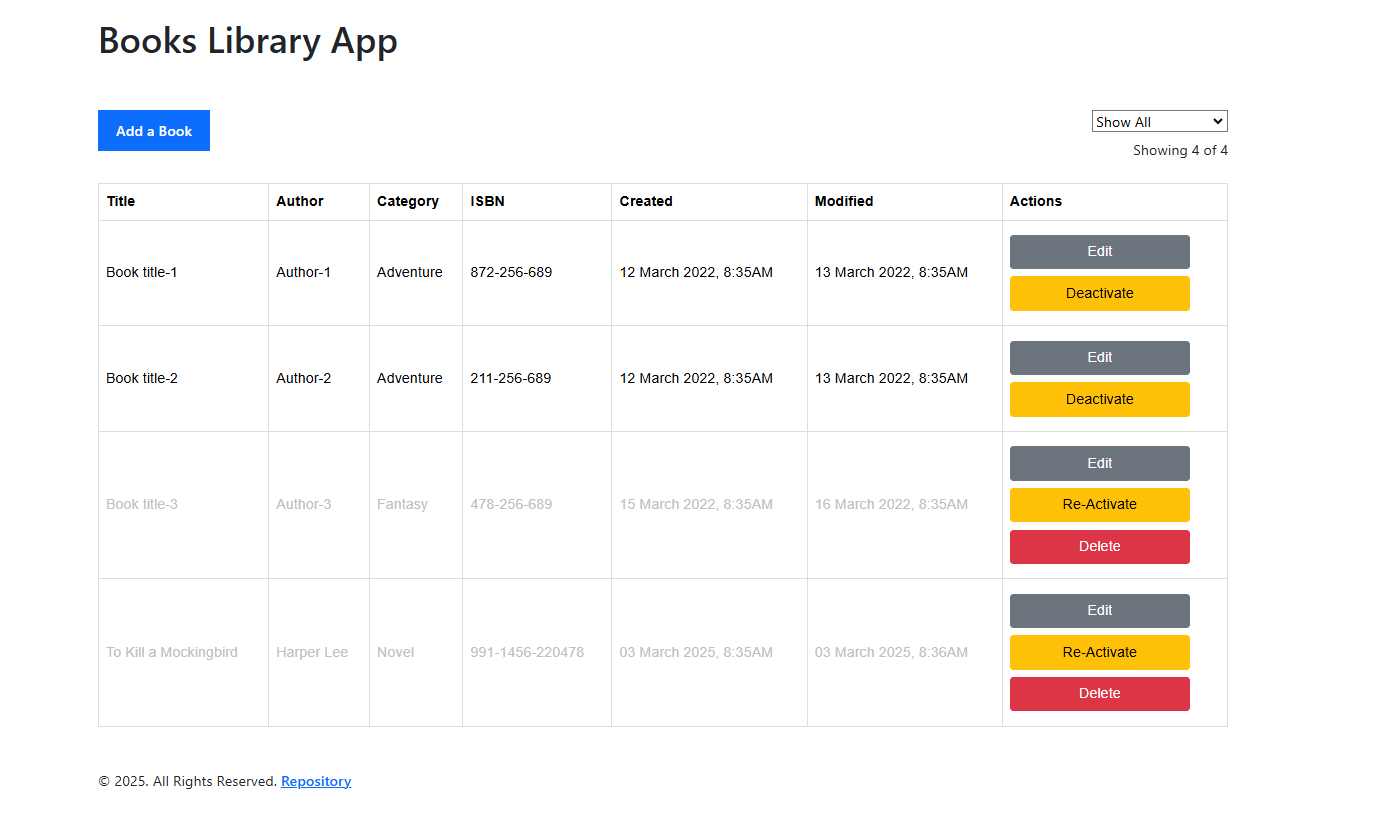
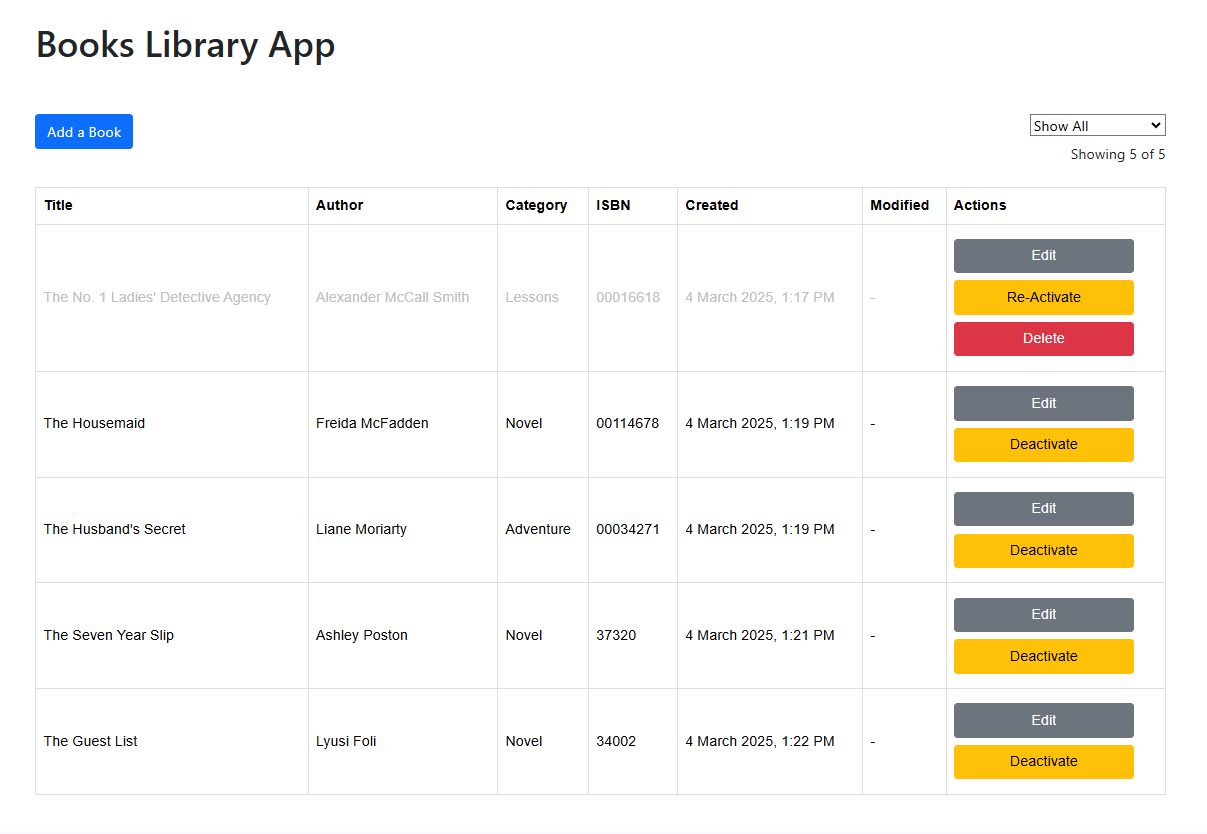
Edit-page fixes
If a book exists already, then update, if not then create a new one. Also the db.json file was updated with some new data.

diff --git a/src/pages/EditPage.tsx b/src/pages/EditPage.tsx
@@ -44,28 +44,57 @@ const EditPage = () => {
     const onSubmit = (e: React.FormEvent) => {
         e.preventDefault();
 
-        const BookUpdated = {
-            "id": uuidv4(),
+        const date = new Date();
+
+        const month = date.toLocaleString('default', { month: 'long' }),
+            time = date.toLocaleString('en-US', { hour: 'numeric', minute: 'numeric', hour12: true }),
+            formattedDate = `${date.getDate()} ${month} ${date.getFullYear()}, ${time}`;
+
+        const bookUpdated = {
+            "id": singleBook.id || uuidv4(),
             "title": singleBook.title,
             "category": singleBook.category,
             "author": singleBook.author,
             "ISBN": singleBook.ISBN,
-            "created": singleBook.created,
-            "modified": singleBook.modified,
+            "created": singleBook.created || formattedDate,
+            "modified": singleBook.modified || '-',
             "status": 'active',
         };
 
-        fetch(`${API_URL}/`, {
-            method: 'POST',
-            headers: {
-                'Content-Type': 'application/json',
-            },
-            body: JSON.stringify(BookUpdated),
-        })
-            .then((response) => response.json())  // Parse the response
-            .catch((error) => {
-                console.error('Error updating book status on server:', error);
-            });
+        fetch(`${API_URL}/${bookUpdated.id}`)
+            .then((response) => {
+                if (response.status === 200 || response.status === 201) {
+                    return response.json()
+                }
+            })
+            .then((data) => {
+                console.log(data)
+                if (data) {
+                    console.log('if branch')
+                    // Item exists, so update it with PUT request
+                    return fetch(`${API_URL}/${bookUpdated.id}`, {
+                        method: 'PUT',
+                        headers: {
+                            'Content-Type': 'application/json',
+                        },
+                        body: JSON.stringify(
+                            {...singleBook,
+                                author: bookUpdated.author
+                            }),
+                    });
+                } else {
+                    console.log('else branch')
+                    // Item does not exist, so create it with POST request
+                    return fetch(`${API_URL}`, {
+                        method: 'POST',
+                        headers: {
+                            'Content-Type': 'application/json',
+                        },
+                        body: JSON.stringify(bookUpdated),
+                    });
+                }
+            })
+            .catch((error) => {console.error('Error updating book status on server:', error);});
     }
 
     const onValueChange = (e:  React.ChangeEvent<HTMLInputElement | HTMLTextAreaElement | HTMLSelectElement>) => {
@@ -130,9 +159,12 @@ const EditPage = () => {
                             <Form.Select
                                 name="category"
                                 value={category}
-                                onChange={(e) =>onValueChange(e)}>
+                                required
+                                onChange={(e) => onValueChange(e)}>
+                                <option value="" disabled>Choose Category</option>
                                 <option value="Adventure">Adventure</option>
                                 <option value="Novel">Novel</option>
+                                <option value="Lessons">Lessons</option>
                             </Form.Select>
                         </Form.Group>
 
@@ -150,7 +182,7 @@ const EditPage = () => {
 
                         <Button variant="primary" type="submit">
                             {
-                                singleBook ?
+                                singleBook?.id ?
                                     'Edit Book'
                                     : 'Add a Book'
                             }

diff --git a/src/components/footer/Footer.tsx b/src/components/footer/Footer.tsx
@@ -1,11 +1,6 @@
-import { useState, useEffect } from "react";
 import { Container, Row, Col } from 'react-bootstrap';
 function Footer() {
-    const [year, setYear] = useState(new Date().getFullYear());
-
-    useEffect(() => {
-        setYear(new Date().getFullYear());
-    }, []);
+    const year = new Date().getFullYear();
 
     return (
         <footer className="py-4">
